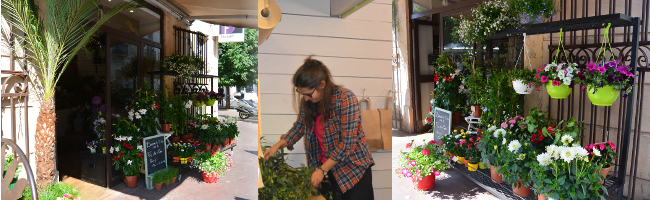
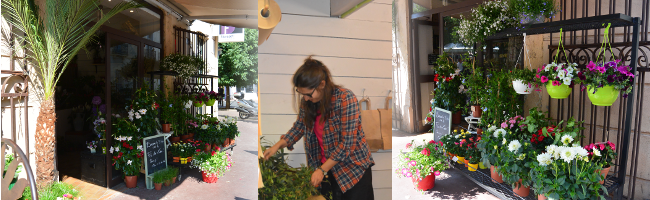
test nouvelle banière

diff --git a/website/templates/base.html b/website/templates/base.html
@@ -62,7 +62,7 @@
 
     <div class="row">
         <div class="col-lg-offset-2 col-md-offset-2 col-md-8 col-lg-8 alice-banner">
-            <img src="../static/img/caroussel/baniere5.png" class="caroussel-img">
+            <img src="../static/img/caroussel/baniere6.png" class="caroussel-img">
         </div>
     </div>
 
